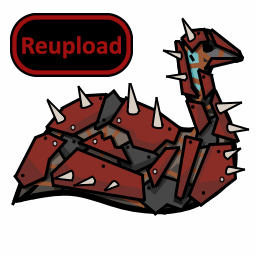
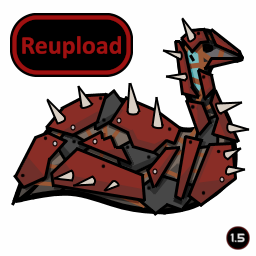
Mod updated for 1.5 and passed autotests

Changed region(s): [[0.875, 0.875, 1.0, 1.0]]

diff --git a/README.md b/README.md
@@ -5,6 +5,8 @@
 Update of Jdalt40s mod
 https://steamcommunity.com/sharedfiles/filedetails/?id=1385727205
 
+**If you like these, also check out... https://steamcommunity.com/sharedfiles/filedetails/?id=2094471816]Raiderpedes**
+
 ![Image](https://i.imgur.com/pufA0kM.png)
 
 	
@@ -44,11 +46,13 @@ Thanks to:
 
 -  See if the the error persists if you just have this mod and its requirements active.
 -  If not, try adding your other mods until it happens again.
--  Post your error-log using https://steamcommunity.com/workshop/filedetails/?id=818773962]HugsLib and command Ctrl+F12
+-  Post your error-log using https://steamcommunity.com/workshop/filedetails/?id=818773962]HugsLib or the standalone https://steamcommunity.com/sharedfiles/filedetails/?id=2873415404]Uploader and command Ctrl+F12
 -  For best support, please use the Discord-channel for error-reporting.
 -  Do not report errors by making a discussion-thread, I get no notification of that.
 -  If you have the solution for a problem, please post it to the GitHub repository.
+-  Use https://github.com/RimSort/RimSort/releases/latest]RimSort to sort your mods
 
 
 
+https://steamcommunity.com/sharedfiles/filedetails/changelog/2228254776]![Image](https://img.shields.io/github/v/release/emipa606/RaiderEmus?label=latest%20version&style=plastic&color=9f1111&labelColor=black)
 
